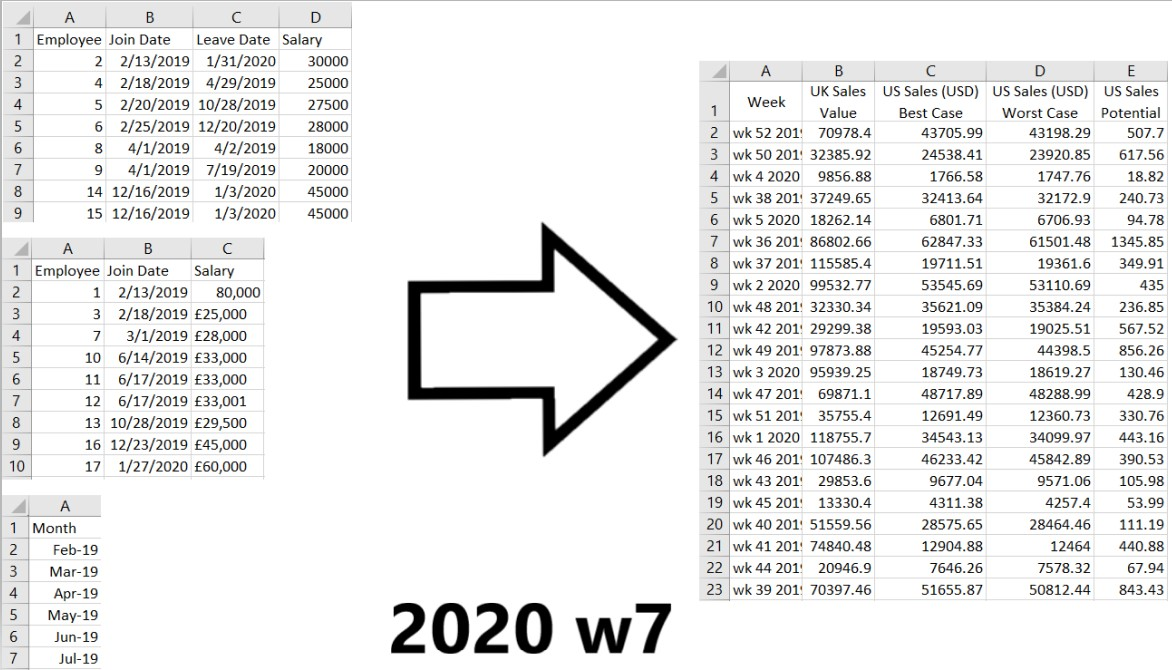
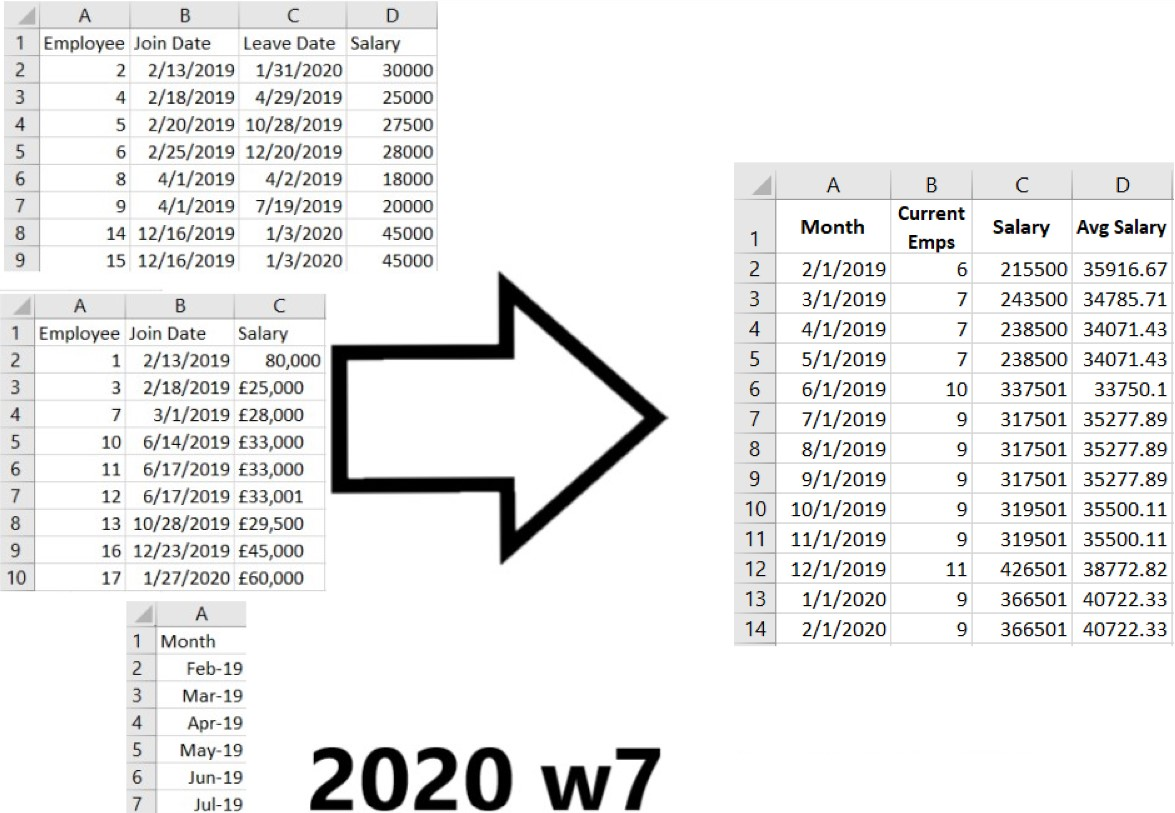
updated summary pictures

Changed region(s): [[0.0, 0.0896, 1.0, 1.0], [0.0, 0.0, 0.3993, 0.3284], [0.2457, 0.8955, 0.5836, 1.0]]

diff --git a/2020 week 7/sol.py b/2020 week 7/sol.py
@@ -24,4 +24,4 @@ all_emps_per_month_df['Salary'] = all_emps_per_month_df['Salary'].astype('string
 monthly_salary_df = all_emps_per_month_df.groupby('Month',as_index=False).agg({'Employee ID':'count', 'Salary':'sum'})
 monthly_salary_df.columns = ['Month', 'Current Employees', 'Salary']
 monthly_salary_df['Avg Salary'] = monthly_salary_df['Salary'] / monthly_salary_df['Current Employees']
-print(monthly_salary_df.head(20))
+show(monthly_salary_df)
